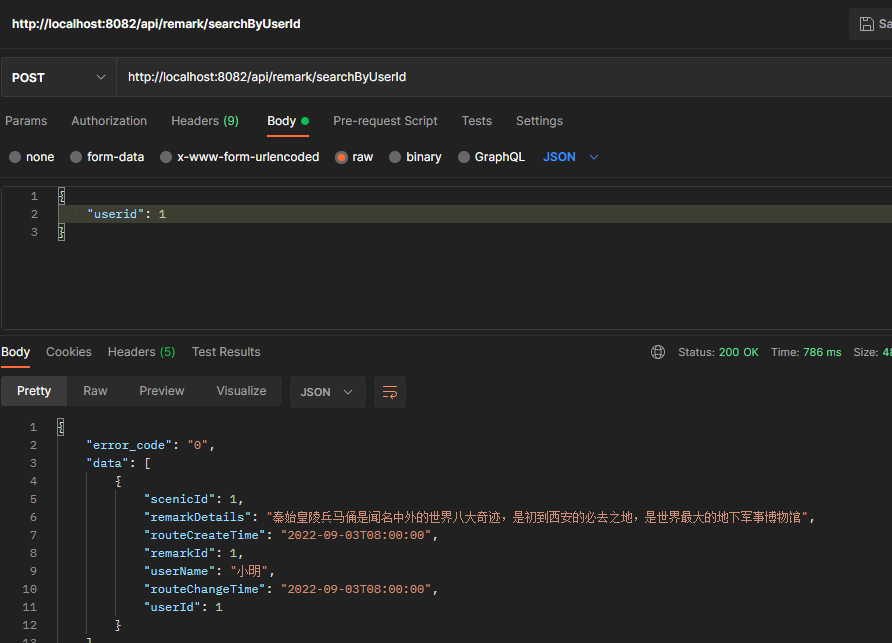
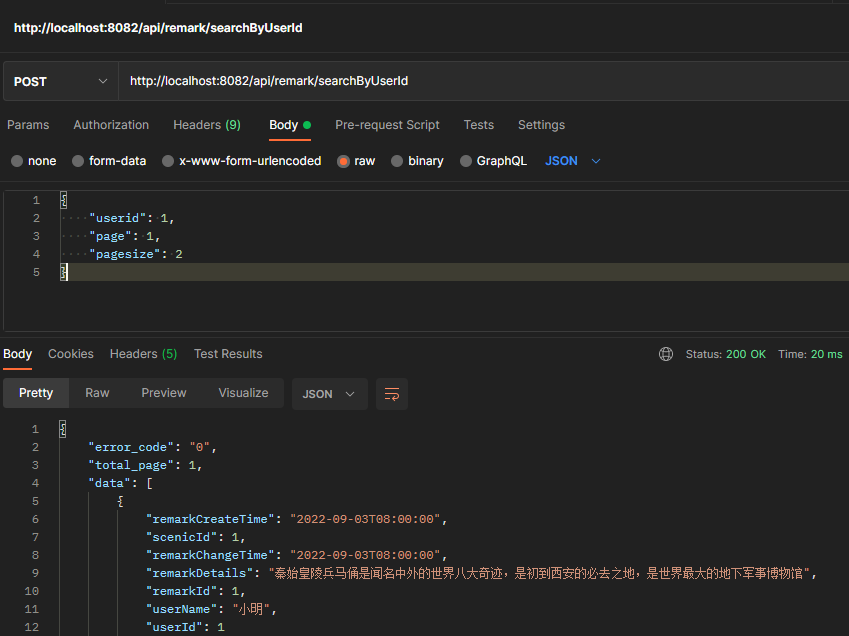
V1.6

diff --git a/scenic/show.md b/scenic/show.md
@@ -2,57 +2,52 @@
 
 
 #### 调用地址
-`http://xxx/api/scenic/show`
+`http://xxx/api/scenic/show/{page}/{pagesize}`
+如`/api/scenic/show/3/2`或 `/api/scenic/show/1`(省略pagesize)
 请求方式: **GET**
 
 
 #### 参数
 参数 | 必选 | 类型 | 说明
 -|-|-|-
-
-无
+page | T |int | 请求的页码
+pagesize| F | int |每页条目数(default 10)
 
 
 #### 返回示例
 ```
 
 {
+{
     "error_code": "0",
+    "total_page": 3,
     "data": [
         {
-            "scenicLocation": "秦始皇陵东1.5公里处",
-            "scenicClass": "博物馆",
-            "scenicName": "秦始皇陵兵马俑博物馆",
-            "scenicGrade": "AAAAA",
-            "scenicPic": "1271a1d9-a2b1-4c08-b947-8e66b5ae3836.jpg",
-            "scenicId": 1,
-            "scenicCity": "陕西省西安市",
-            "scenicPrice": "120.5（不分淡旺季）",
+            "scenicCloseTime": "17:30:00",
+            "scenicName": "陕西历史博物馆",
+            "scenicId": 5,
+            "scenicCity": "陕西省西安市雁塔区",
+            "scenicCreateTime": "2022-09-03T08:00:00",
             "scenicChangeTime": "2022-09-03T08:00:00",
-            "scenicIntroduction": "秦始皇兵马俑博物馆位于陕西省西安市临潼区秦陵镇，成立于1975年11月，原为秦始皇兵马俑筹建处，于1979年10月1日正式开馆，建于临潼县东7.5公里的骊山北麓的秦始皇帝陵兵马俑坑遗址上，西距西安37.5公里；和丽山园合称秦始皇帝陵博物院。",
-            "scenicOpenTime": "08:30:00",
-            "scenicCloseTime": "18:00:00",
-            "scenicStatus": "开放",
-            "scenicCreateTime": "2022-09-03T08:00:00"
+            "scenicIntroduction": "中国第一座大型现代化国家级博物馆，首批“AAAA”级旅游景点，被誉为“古都明珠，华夏宝库”。",
+            "scenicOpenTime": "09:00:00"
         },
         {
-            "scenicLocation": "历城区 东北，位于 黄河 以南， 小清河 以北，将军路以东",
-            "scenicClass": "风景区",
-            "scenicName": "华山",
-            "scenicStatus": "开放",
-            "scenicGrade": "AAAAA",
-            "scenicId": 2,
-            "scenicCity": "山东省济南市",
-            "scenicCreateTime": "2022-09-03T08:00:00",
-            "scenicPrice": "160（旺季） 100（淡季）",
-            "scenicChangeTime": "2022-09-03T08:00:00"
+            "scenicName": "测试景点1",
+            "scenicId": 6,
+            "scenicCity": "陕西省西安市",
+            "scenicCreateTime": "2022-09-07T11:47:12",
+            "scenicChangeTime": "2022-09-07T11:47:12"
         }
+    ]
+}
 }
 
 ```
 参数说明
 参数名 | 类型 | 说明
 -|-|-
+total_page | int | 总页码数
 scenicId | int | 景点主键
 scenicName | string | 景点名称
 scenicIntroduction | string | 景点介绍
@@ -73,6 +68,3 @@ scenicChangeTime|string|最后修改时间
 -|-
 0|成功
 1121|无条目
-
-#### 备注
-需要加页码请联系

diff --git a/remark/searchByUserId.md b/remark/searchByUserId.md
@@ -8,20 +8,31 @@
 参数示例
 ```
 {
-    "userid": 1
+    "userid": 1,
+    "page": 1,
+    "pagesize": 2
+}
+```
+最简式
+```
+{
+    "userid": 1,
+    "page": 1
 }
 ```
 
 参数 | 必选 | 类型 | 说明
 -|-|-|-
 userid | T | string | 账号
-
+page | T | int|当前页码
+pagesize |F | int | 页面大小(default 10)
 
 
 #### 返回示例
 ```
 {
     "error_code": "0",
+    "total_page": 1,
     "data": [
         {
             "remarkCreateTime": "2022-09-03T08:00:00",
@@ -31,6 +42,15 @@ userid | T | string | 账号
             "remarkId": 1,
             "userName": "小明",
             "userId": 1
+        },
+        {
+            "remarkCreateTime": "2022-09-07T14:40:31",
+            "scenicId": 1,
+            "remarkChangeTime": "2022-09-07T14:40:31",
+            "remarkDetails": "太美丽了",
+            "remarkId": 8,
+            "userName": "小明",
+            "userId": 1
         }
     ]
 }
@@ -38,6 +58,7 @@ userid | T | string | 账号
 参数说明
 参数名 | 类型 | 说明
 -|-|-
+total_page | int | 总页码数
 remarkId | int | 评论主键
 userId | int | 用户主键
 userName | string | 用户昵称

diff --git a/scenic/searchByString.md b/scenic/searchByString.md
@@ -10,18 +10,29 @@
 参数示例
 ```
 {
-    "searchstring": "西安"
+    "searchstring": "西安",
+    "page": 1,
+    "pagesize": 2
 }
 ```
+最简式
+```
+{
+    "searchstring": "西安",
+    "page": 1
+}
+```
+
 参数 | 必选 | 类型 | 说明
 -|-|-|-
 searchstring | T | string | 查询景点名
-
+page | T |int | 请求的页码
+pagesize| F | int |每页条目数(default 10)
 #### 返回示例
 ```
-
 {
     "error_code": "0",
+    "total_page": 7,
     "data": [
         {
             "scenicLocation": "秦始皇陵东1.5公里处",
@@ -54,11 +65,13 @@ searchstring | T | string | 查询景点名
             "scenicStatus": "暂时关闭（疫情）",
             "scenicCreateTime": "2022-09-03T08:00:00"
         }
+    ]
 }
 ```
 参数说明
 参数名 | 类型 | 说明
 -|-|-
+total_page|int|总页码数
 scenicId | int | 景点主键
 scenicName | string | 景点名称
 scenicIntroduction | string | 景点介绍
@@ -78,7 +91,4 @@ scenicChangeTime|string|最后修改时间
 代码|说明
 -|-
 0|成功
-1101|没查询到
-
-#### 备注
-需要加页码请联系
+1101|当前页码没查询到

diff --git a/user/show.md b/user/show.md
@@ -1,14 +1,18 @@
 所有用户展示接口
 
 #### 调用地址
-`http://xxx/api/user/show`
+`http://xxx/api/user/show/{page}/{pagesize}`
+pagesize可省略
+如`/api/user/show/1`
+`/api/user/show/1/2`
 请求方式: **GET**
 
 #### 参数
 参数 | 必选 | 类型 | 说明
 -|-|-|-
+page | T |int | 请求的页码
+pagesize| F | int |每页条目数(default 10)
 
-无
 
 
 
@@ -16,6 +20,7 @@
 ```
 {
     "error_code": "0",
+    "total_page": 3,
     "data": [
         {
             "userAddress": "浙江省台州市温岭市XX镇",
@@ -43,11 +48,13 @@
             "userId": 2,
             "userChangeTime": "2022-09-03T08:00:00"
         }
+    ]
 }
 ```
 参数说明
 参数名 | 类型 | 说明
 -|-|-
+total_page|int|总页码数
 userId|int|用户主键
 userAccount| string | 账号
 userPassword|string|用户密码
@@ -66,6 +73,3 @@ userRemarks | string | 备注
 -|-
 0|成功
 1501|没有条目
-
-#### 备注
-如果需要按页码展示，请联系

diff --git a/route/show.md b/route/show.md
@@ -2,8 +2,9 @@
 
 
 #### 调用地址
-`http://xxx/api/route/show/{scenicid}`
-如`http://localhost:8082/api/route/show/2`
+`http://xxx/api/route/show/{scenicid}/{page}/{pagesize}`(pagesize可省略)
+如`http://localhost:8082/api/route/show/2/1/2`
+或者`http://localhost:8082/api/route/show/2/1`
 请求方式: **GET**
 
 
@@ -11,12 +12,14 @@
 参数 | 必选 | 类型 | 说明
 -|-|-|-
 scenicid | T | int | 查询用景点主键
-
+page | T | int | 当前页码
+pagesize | F | int | 页面大小(default 10)
 
 #### 返回示例
 ```
 {
     "error_code": "0",
+    "total_page": 2,
     "data": [
         {
             "routeId": 1,
@@ -43,6 +46,7 @@ scenicid | T | int | 查询用景点主键
 参数说明
 参数名 | 类型 | 说明
 -|-|-
+total_page | int | 总页码数
 routeId | int | 路线主键
 scenicId|int|所属景点主键
 routeName | string | 路线名称

diff --git a/remark/searchByScenicId.md b/remark/searchByScenicId.md
@@ -9,20 +9,30 @@
 参数示例
 ```
 {
-    "scenicid": 1
+    "scenicid": 1,
+    "page": 1,
+    "pagesize": 2
 }
 ```
-
+最简式
+```
+{
+    "scenicid": 1,
+    "page": 1
+}
+```
 参数 | 必选 | 类型 | 说明
 -|-|-|-
 scenicid | T | int | 查询景点主键
-
+page | T | int | 当前页码
+pagesize | F | int | 页面大小(default 10)
 
 
 #### 返回示例
 ```
 {
     "error_code": "0",
+    "total_page": 2,
     "data": [
         {
             "remarkCreateTime": "2022-09-03T08:00:00",
@@ -48,6 +58,7 @@ scenicid | T | int | 查询景点主键
 参数说明
 参数名 | 类型 | 说明
 -|-|-
+total_page | int | 总页码数
 remarkId | int | 评论主键
 userId| int | 用户主键
 userName | string | 用户昵称

diff --git a/错误码汇总.md b/错误码汇总.md
@@ -8,7 +8,7 @@
 1061|remark/release |景点不存在
 1062 | remark/release|账号不存在
 1063|remark/release|其他问题
-1101|scenic/searchByString|没查询到
+1101|scenic/searchByString|当前页码没查询到
 1111|scenic/searchById|无条目
 1121|scenic/show|无条目
 1131|scenic/delete|查无此景点

diff --git a/readme.md b/readme.md
@@ -8,6 +8,9 @@
 ! 当前正在修改Json字段名,修改完成的将在下方 
 
   
+### V1.6 2022年9月7日18点21分
+* 更新user scenic route remark 的查询的分页
+
 ### V1.5 2022年9月7日15点42分
 * 更新所有admin接口,完成测试
 * 更新user创建账号的同账号检查
